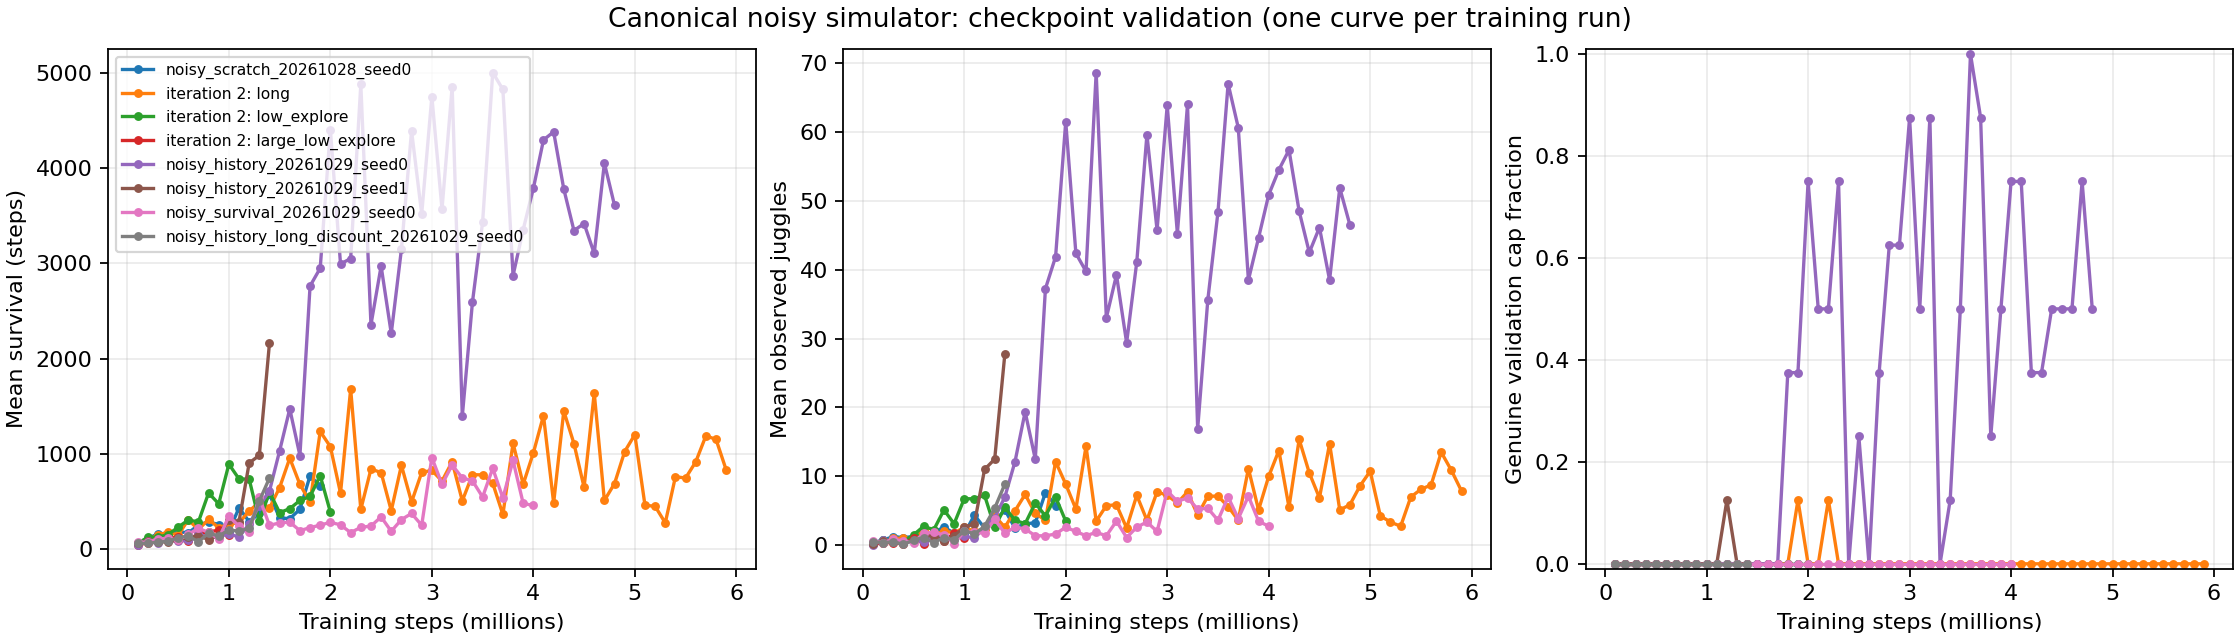
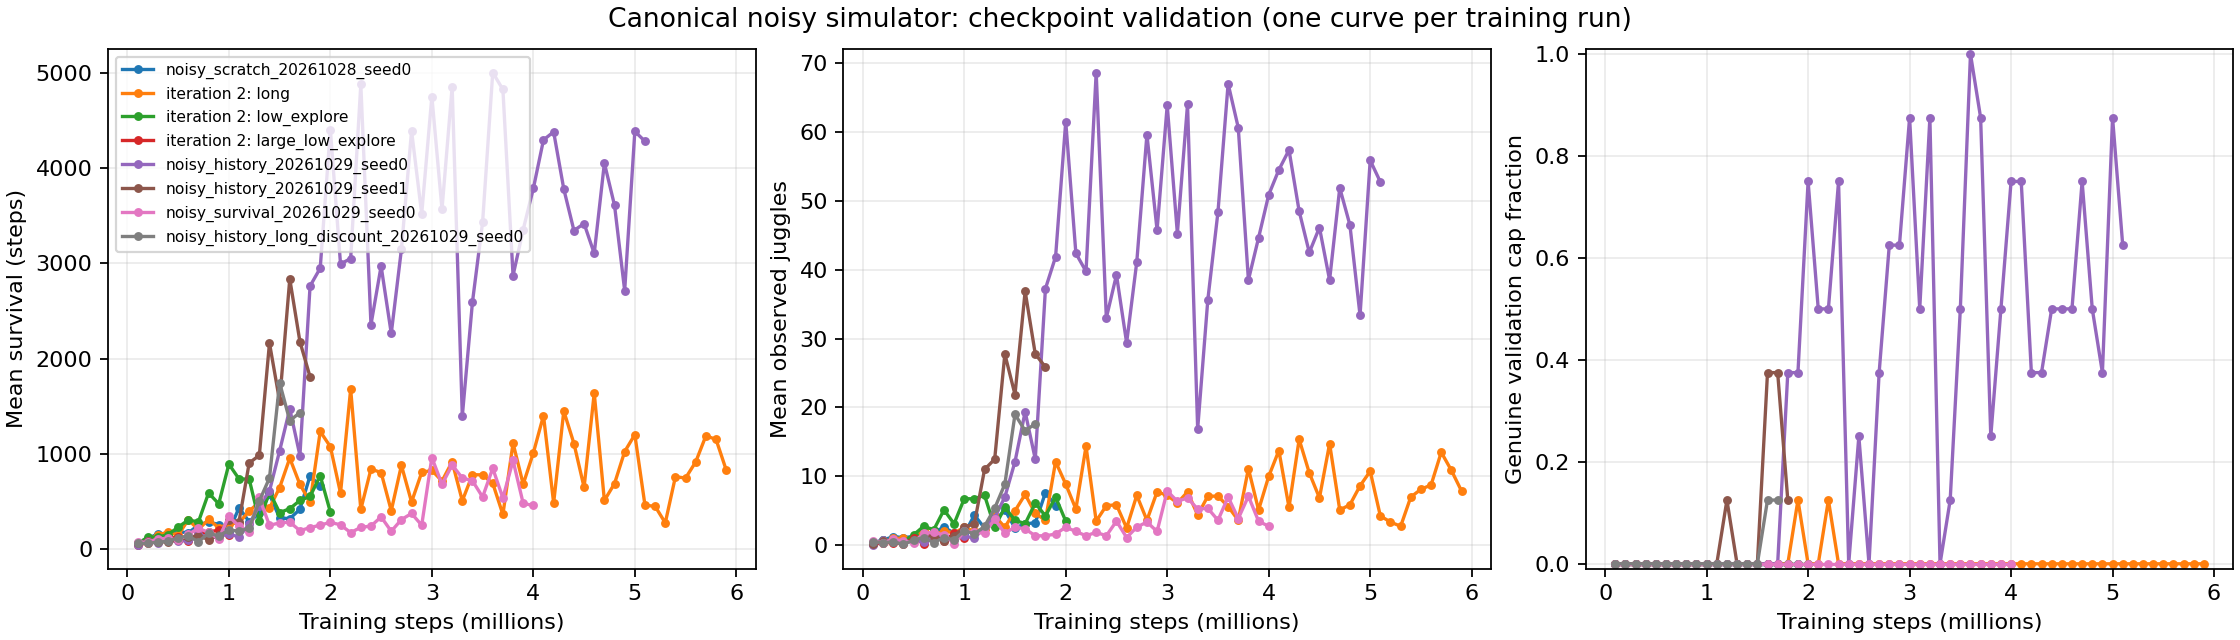
Record new history validation caps and queue fixed 2M comparisons

diff --git a/notes/scratch/experiments/2026-10-29_22-56_new-history-caps-2m-queue.md b/notes/scratch/experiments/2026-10-29_22-56_new-history-caps-2m-queue.md
@@ -1,0 +1,28 @@
+# New history validation caps and fixed 2M tests
+
+Recorded 2026-10-29 17:56:56 -0500. Both newer scratch history trials have genuine 5k validation caps by 1.6M. These are reused validation starts, not independent replication or evidence of a discount advantage.
+
+| Trial | First genuine cap checkpoint | Mean at 1.6M | Genuine 5k caps at 1.6M | Training seed | Gamma |
+|---|---:|---:|---:|---:|---:|
+| History replication | 1.2M (1/8) | 2,836.25 | 3/8 | 1 | .995 |
+| Longer discount | 1.6M (1/8) | 1,349.875 | 1/8 | 0 | .999 |
+
+The full saved history was checked: seed 1 first capped at 1.2M with mean 906.5, before its stronger 1.6M result. Gamma .999 first capped at 1.6M. Same eight reused starts 10000–10007 and physical-trajectory heuristic, not exact contact counting. Both learners passed long weak early phases and remain running toward 6M. [Portable checkpoint hashes and per-start evidence](../../../docs/juggling-history-new-trials-caps.json). No early termination or candidate promotion follows from this small validation set.
+
+## Waiting fixed 2M comparisons
+
+Four live watcher processes are waiting for complete 2M validation, then will freeze/evaluate online and target weights from each run on 32 reused starts 700000–700031 at 20k. Seed 1 online/target PIDs 1360532/1360533; longer-discount online/target 1360534/1360535. [Queue metadata](../../../docs/juggling-history-new-trials-2m-watch.json), [archived source](../../../docs/juggling-history-new-trials-2m-watch-source.txt). Source syntax compiled and startup states verified; no 2M outcome yet. The archive is for inspection, with paths relative to each live run directory.
+
+The existing guarded 5M watcher logic is reused with fixed 2M checkpoint/output names. Heavy policy imports are deferred until a checkpoint is ready, reducing idle memory use. Each evaluation runs in its own process, verifies reviewed simulator/config hashes and canonical environment, refuses existing output and records a frozen weight hash before acting. Target weights are Polyak averages inside that same scratch run; no learner or warm start is created. No new training, reward, sensing, dynamics, PID/smoothing, geometry, contacts, workspace or DR modification.
+
+These comparisons add candidate measurements to the research selection set; they are not new independent acceptance. Budgets differ from older 3.6M/4M/5M candidates, so scores alone cannot establish a causal gamma or seed effect. A selected policy still needs a locked new-seed test. Current best reference remains the 3.6M target with 18/32 caps and 14 failures on its independent 800000 cohort.
+
+Equivalent evaluation after readiness, choosing new outputs:
+
+```sh
+.venv/bin/python -m scripts.td3.juggle_survival --run-dir runs/td3/noisy_history_20261029_seed1/train/checkpoint_2000000 --out-dir NEW_OUTPUT --scenario-set training --horizon 20000 --episodes 32 --seed-base 700000 --gif-steps 0
+# Target view maps model.pth to actor_target.pth and shares saved metadata.
+# Repeat for the longer-discount run; all are inference-only.
+```
+
+Both original 5M long tests are still running and all three learners continue. No new GIF for these early validation sets; E038 has the latest verified candidate clip. Checks: first-cap history, saved summaries/weights, live queue PIDs/states, syntax/archive equality, report generation, links/images, anchors/TOCs and whitespace. No new implementation tests or expensive training reruns.

diff --git a/docs/experiment_logbook.md b/docs/experiment_logbook.md
@@ -6,6 +6,7 @@ Entries and contents are ordered newest first; IDs remain permanent.
 
 ## Table of contents
 
+- [E040 — New history validation caps and fixed 2M tests queued](#e040)
 - [E039 — Selected target reaches eighteen new-seed 20k caps](#e039)
 - [E038 — Four-way comparison selects 3.6M target for new-seed testing](#e038)
 - [E037 — Target3.6M reaches twenty paired20k caps;4M target test starts](#e037)
@@ -45,6 +46,16 @@ Entries and contents are ordered newest first; IDs remain permanent.
 - [E003 — Original-sensing fine-tuning regression](#e003)
 - [E002 — Clean-simulation iterations and failed transfer](#e002)
 - [E001 — Initial sustained-juggling studies](#e001)
+
+<a id="e040"></a>
+
+## E040 — 2026-10-29 17:56:56 -0500 — New history validation caps and fixed 2M tests queued
+
+Both newer scratch trials have genuine 5k validation caps by 1.6M, and their fixed 2M online/target comparisons are queued.
+
+**Completed validation:** At1.6M, seed1 mean2836.25 and3/8caps; gamma.999 mean1349.875 and1/8caps. Full history shows seed1 first capped at1.2M (mean906.5,1/8), while gamma first capped at1.6M. [Checkpoint/per-start evidence](juggling-history-new-trials-caps.json), [detailed record](../notes/scratch/experiments/2026-10-29_22-56_new-history-caps-2m-queue.md). Reused8starts; no independent replication or gamma-advantage claim.
+
+**Waiting:** Four online/target watchers,32used700000starts at20k after2M. [Queue/source metadata](juggling-history-new-trials-2m-watch.json). No result yet. All three learners and both5M long tests continue, unchanged simulator/DR and no new training launch. No new GIF. [A039](agent_logbook.md#a039).
 
 <a id="e039"></a>
 

diff --git a/docs/juggling-noisy-progress.md b/docs/juggling-noisy-progress.md
@@ -1,6 +1,6 @@
 # Noisy juggling progress
 
-Generated 2026-10-29T22:36:53.951620+00:00 from saved evaluations; no new rollouts.
+Generated 2026-10-29T22:56:57.245805+00:00 from saved evaluations; no new rollouts.
 
 Validation curves use repeatedly evaluated starts, not independent acceptance tests. Each point is an episode mean for one training seed. Check the CSV for episode counts, seeds and caps. Observed juggle counts use noisy camera positions and a direction-reversal filter. Contact timesteps are not distinct juggles. Cap fractions use the physical-trajectory heuristic when available, otherwise the legacy observed-count heuristic.
 
@@ -14,10 +14,10 @@ Validation curves use repeatedly evaluated starts, not independent acceptance te
 | noisy_iteration2_20261029_long | complete | 5,900,000 | 834.4 | 7.88 | 0.0% |
 | noisy_iteration2_20261029_low_explore | interrupted | 2,000,000 | 392.0 | 3.50 | 0.0% |
 | noisy_iteration2_20261029_large_low_explore | interrupted | 1,000,000 | 152.6 | 1.00 | 0.0% |
-| noisy_history_20261029_seed0 | training | 4,800,000 | 3607.5 | 46.50 | 50.0% |
-| noisy_history_20261029_seed1 | training | 1,400,000 | 2163.5 | 27.75 | 0.0% |
+| noisy_history_20261029_seed0 | training | 5,100,000 | 4279.1 | 52.75 | 62.5% |
+| noisy_history_20261029_seed1 | training | 1,800,000 | 1809.5 | 25.88 | 12.5% |
 | noisy_survival_20261029_seed0 | interrupted | 4,000,000 | 461.0 | 2.75 | 0.0% |
-| noisy_history_long_discount_20261029_seed0 | training | 1,400,000 | 748.9 | 8.88 | 0.0% |
+| noisy_history_long_discount_20261029_seed0 | training | 1,700,000 | 1434.9 | 17.62 | 12.5% |
 
 Separate-start evaluations (selection and benchmark phases labeled):
 

diff --git a/docs/agent_logbook.md b/docs/agent_logbook.md
@@ -6,6 +6,7 @@ Entries and contents are ordered newest first; IDs remain permanent.
 
 ## Table of contents
 
+- [A039 — Verify new-trial caps and queue fixed 2M variant comparisons](#a039)
 - [A038 — Complete selected-target independent test and queue fixed5M variants](#a038)
 - [A037 — Complete four-variant selection and lock independent target test](#a037)
 - [A036 — Complete target3.6M comparison and evaluate4M target weights](#a036)
@@ -44,6 +45,14 @@ Entries and contents are ordered newest first; IDs remain permanent.
 - [A003 — Restore original sensing and matched comparison](#a003)
 - [A002 — Clean diagnostics and evaluation](#a002)
 - [A001 — Continuing-task implementation](#a001)
+
+<a id="a039"></a>
+
+## A039 — 2026-10-29 17:56:56 -0500 — Verify new-trial caps and queue fixed 2M variant comparisons
+
+Codex checked the full new-trial validation history and attached guarded fixed-budget online/target evaluations.
+
+**Evidence:** [E040](experiment_logbook.md#e040), [detailed note](../notes/scratch/experiments/2026-10-29_22-56_new-history-caps-2m-queue.md). Checked the first-cap milestones separately from the1.6M comparison. Preserved checkpoint hashes/per-start validation, syntax-checked shared2M source and verified four waiting processes. Deferred imports keep idle watchers small. Evaluations use reused selection starts and freeze weights before acting; no warm start or simulator/control/DR change. Three learners and5M tests remain live. Documentation/report checks pass; goal remains unsolved.
 
 <a id="a038"></a>
 

diff --git a/notes/scratch/experiments/INDEX.md b/notes/scratch/experiments/INDEX.md
@@ -114,3 +114,5 @@ Format: `- YYYY-MM-DD HH:MM | topic | one-sentence outcome | [file](path)`
 - 2026-10-29 22:21 | Four-variant selection and independent test | Cap counts14/20/15/14;3.6M target chosen before new800000 test; verified target GIF | [file](2026-10-29_22-21_history-four-variant-selection-new-test.md)
 
 - 2026-10-29 22:36 | Selected-target independent result | New-seed18/32at20k,14failures;fixed5M online/target watchers waiting | [file](2026-10-29_22-36_selected-target-independent-result-5m-queue.md)
+
+- 2026-10-29 22:56 | New history caps and 2M queue | Seed1 first cap1.2M;1.6M caps3/8seed1 and1/8gamma.999;fixed2M tests waiting | [file](2026-10-29_22-56_new-history-caps-2m-queue.md)
